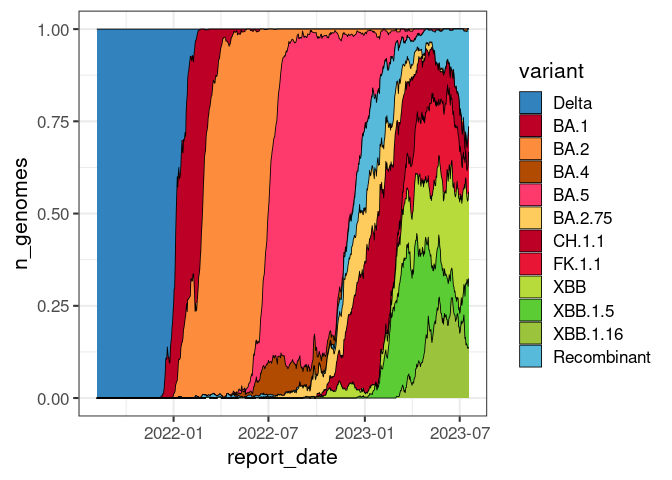
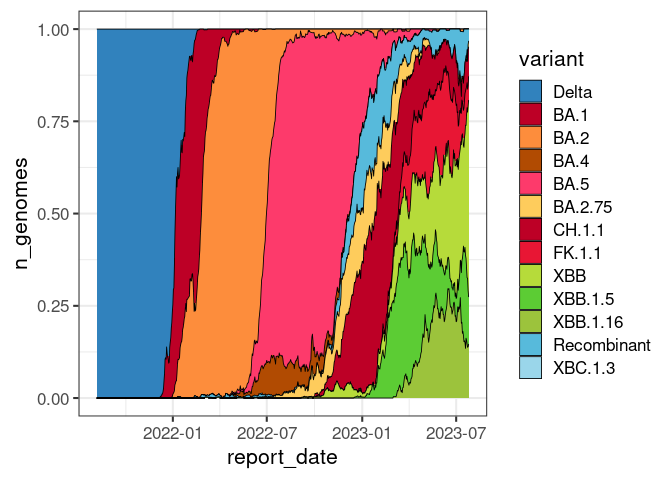
update, now with XBC.1.3

diff --git a/README.md b/README.md
@@ -58,6 +58,7 @@ stack_order <- c("Delta",
                  "BA.5", 
                  "BA.4", 
                  "Recombinant",
+                 "XBC.1.3",
                  "BA.2.75", 
                  "CH.1.1", 
                  "FK.1.1",
@@ -82,7 +83,8 @@ voc_pal <-c(Delta        = "#3182bd",
             XBB          = "#b6db3a",
             XBB.1.5      = "#5CCC34", 
             XBB.1.16     = "#9CC33C",
-            Recombinant  = "#57badb"
+            Recombinant  = "#57badb", 
+            XBC.1.3      = "#9AD6EA"
 )
 
 

diff --git a/changes.md b/changes.md
@@ -1,3 +1,8 @@
+## 04/08/2023
+
+* Addictionof XBC.1.3 to tracked lineages
+* This lineage was previously included in the generic "Recombinant" category
+
 ## 05/05/2023
 
 * Major chane to list of tracked lineages. 
